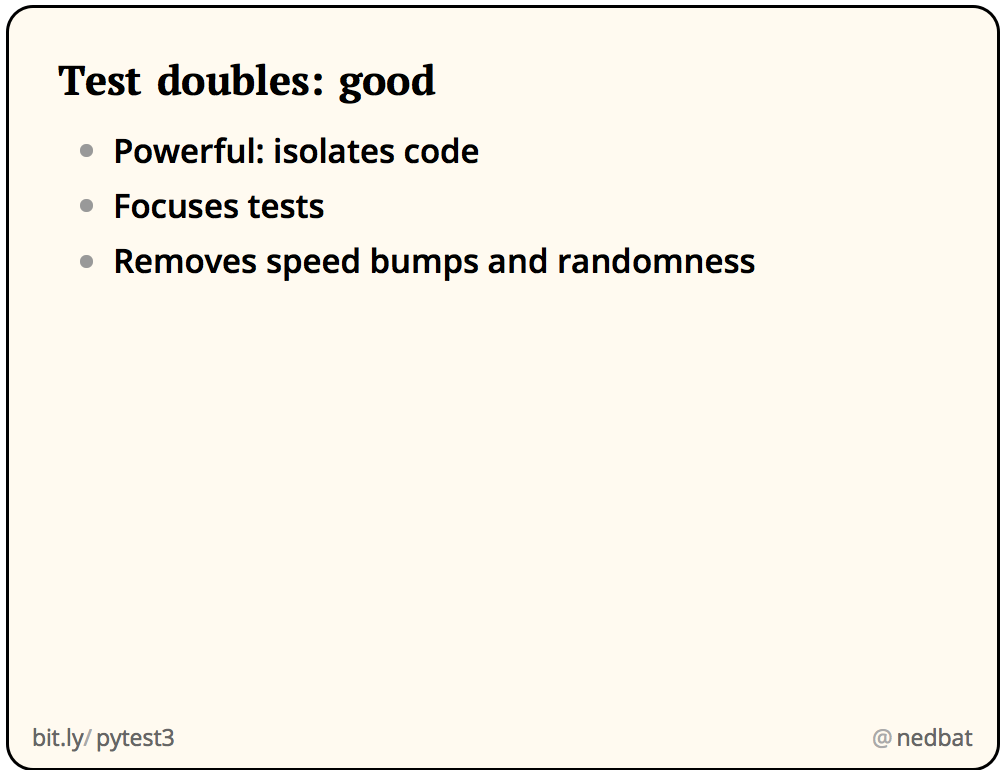
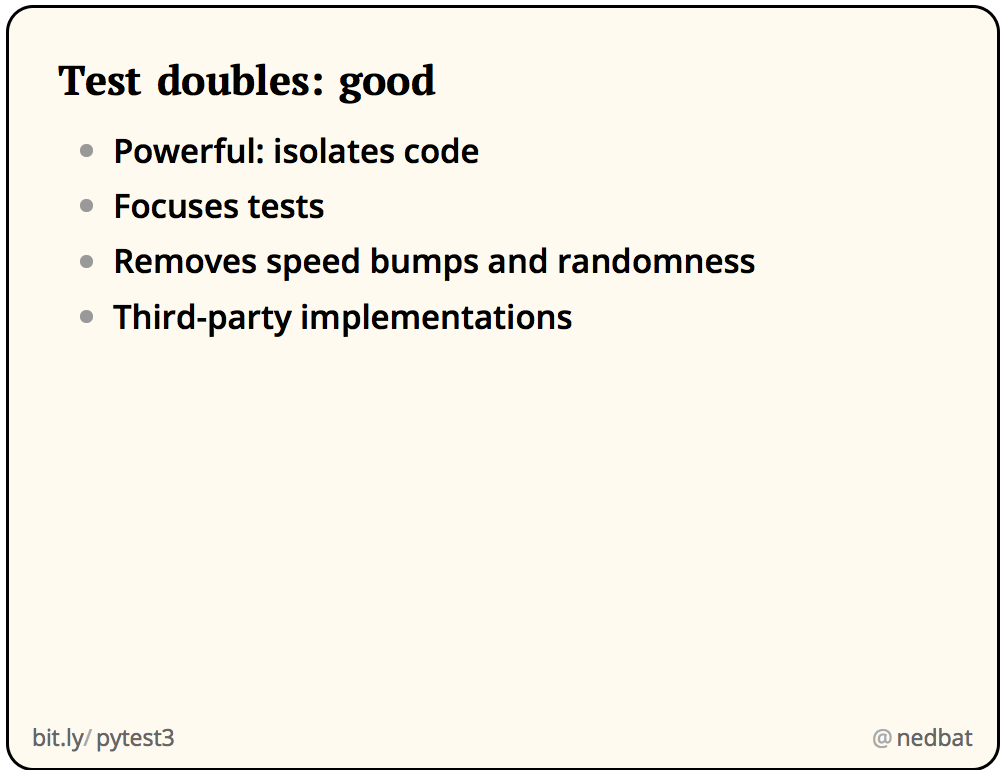
test3 tweaking

Changed region(s): [[0.124, 0.374, 0.589, 0.4364], [0.062, 0.4052, 0.093, 0.4364]]

diff --git a/pages/text/test3/test3.html b/pages/text/test3/test3.html
@@ -2706,6 +2706,7 @@ def test_value(simple_portfolio, mocker):
         <li class="incremental">Powerful: isolates code</li>
         <li class="incremental">Focuses tests</li>
         <li class="incremental">Removes speed bumps and randomness</li>
+        <li class="incremental">Third-party implementations</li>
     </ul>
 </div>
 
@@ -2734,6 +2735,10 @@ def test_value(simple_portfolio, mocker):
     <p>Finding the right way to use test doubles is a very tricky problem,
     involving trade-offs between what code is tested, and how dependent on the
     implementation you want to be.</p>
+
+    <p>One thing to keep in mind: if you are trying to mock out a popular
+    third-party package like requests, there might already be a specialized
+    third-party implementation of the exact test doubles you need.</p>
 
 </div><!-- }}} -->
 
@@ -3096,6 +3101,29 @@ def test_value(simple_portfolio, mocker):
     </p>
     </div>
 </div>
+
+
+<div class="text"><!-- {{{ -->
+
+    <p>There's an entire world of other resources and more information about
+    testing topics.  Here are some:</p>
+
+    <ul>
+
+    <li><a href="https://salmonmode.github.io/2019/03/29/building-good-tests.html">Building
+    Good Tests</a>, Chris NeJame's detailed, pithy, opinionated list of do's
+    and don'ts for writing tests.</li>
+
+    <li>Brian Okken's presentation at PyCascades 2020,
+    <a href="https://github.com/okken/pycascades2020">Multiply your Testing Effectiveness with Parametrized Testing</a>,
+    has many examples of the types of complex supporting structures you can
+    create with pytest parameterization.
+    </li>
+
+    </ul>
+
+</div><!-- }}} -->
+
 
 <!-- }}} -->
 
